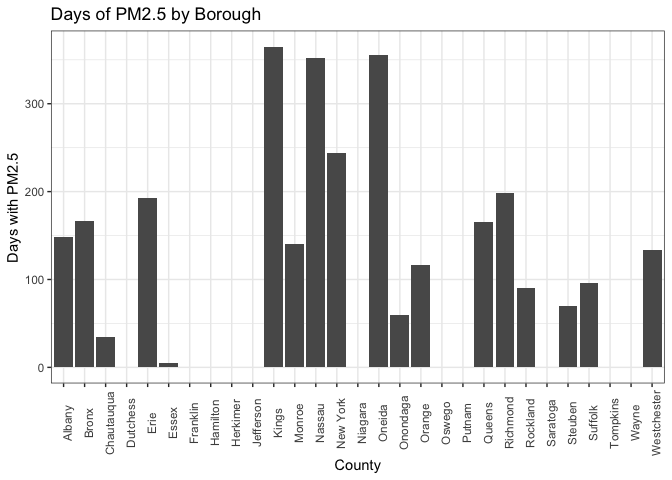
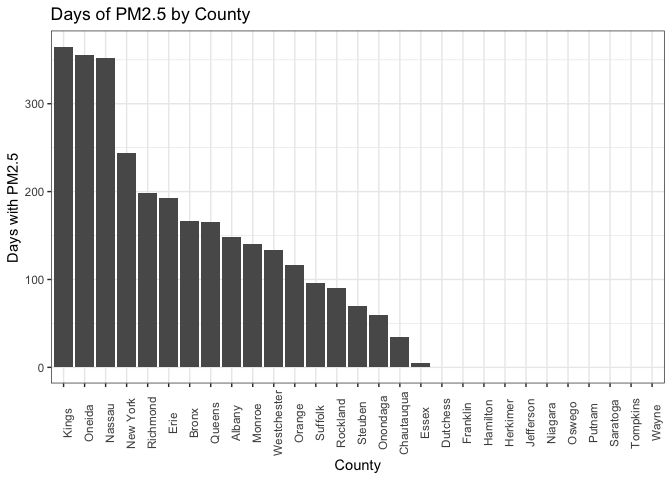
adding a few sentences for exploratory analysis + changing path files for data

diff --git a/final_report_AAAD.md b/final_report_AAAD.md
@@ -66,19 +66,16 @@ For our data analysis, we used data from [New York State DOH HealthData](https:/
 Exploratory analysis
 --------------------
 
-Background & Objectives
------------------------
-
 ### Exploration
 
-Initial PM2.5 data exploration was focused on New York City counties. However, limited data was available available, so NY state county data were selected to demonstrate the relationship between PM2.5 and hospitalizations of asthma and CVD.
+Initial PM2.5 data exploration was focused on New York City counties. However, limited data was available, so NY state county data were selected to demonstrate the relationship between PM2.5 and hospitalizations of asthma and CVD.
 
 Over 2000-2014, levels of PM2.5 across all counties in New York State have steadily decreased.
 
 #### PM2.5 Dataset, 2000-2014
 
 ``` r
-PM_county_NYS = read_csv("PM2.5_county_NYS.csv") %>%
+PM_county_NYS = read_csv("./data/PM2.5_county_NYS.csv") %>%
   janitor::clean_names() %>%
   #filter(year == "2014") %>%
   select(county_name, year, output, measure) %>%
@@ -107,7 +104,7 @@ Next, we wanted to assess how PM2.5 exposure varied across counties in NY State.
 #### PM2.5 EPA dataset
 
 ``` r
-nyc_pm25 = read_csv(file = "./data_AA/annual_aqi_by_county_2014.csv") %>% 
+nyc_pm25 = read_csv(file = "./data/data_AA/annual_aqi_by_county_2014.csv") %>% 
   janitor::clean_names() %>%
   filter(state == "New York")
 ## Parsed with column specification:
@@ -123,9 +120,9 @@ nyc_pm25 = read_csv(file = "./data_AA/annual_aqi_by_county_2014.csv") %>%
 
 ``` r
 pm_hist = nyc_pm25 %>%
-  ggplot(aes(x = county, y = days_pm2_5)) + 
+  ggplot(aes(x = reorder(county, -days_pm2_5), y = days_pm2_5)) + 
   labs(
-    title = "Days of PM2.5 by Borough",
+    title = "Days of PM2.5 by County",
     x = "County",
     y = "Days with PM2.5") +
   geom_histogram(stat = "identity") + theme(axis.text.x = element_text(angle = 90))
@@ -136,12 +133,14 @@ pm_hist
 
 <img src="final_report_AAAD_files/figure-markdown_github/unnamed-chunk-4-1.png" width="90%" />
 
+Kings, Oneida, and Nassau reported the most number of days of PM2.5.
+
 Literature shows that exposure to PM2.5 is associated with asthma and cardiovascular disease. Therefore, we wanted to assess hospitalization of asthma and CVD across counties.
 
 #### Asthma ER Admissions Rate Dataset, 2014
 
 ``` r
-asthma_ER = read_csv("Asthma_ER_Rate_10000.csv") %>%
+asthma_ER = read_csv("./data/Asthma_ER_Rate_10000.csv") %>%
   janitor::clean_names() %>%
   #filter(county_name == "Bronx" | county_name == "Kings" | county_name == "Queens" | county_name == "Richmond" | county_name == "New York") %>%
   select(county_name, percentage_rate_ratio, data_years) %>%
@@ -166,7 +165,7 @@ asthma_plot_14
 #### Cardiovascular hospitalizations
 
 ``` r
-cvd_data = read_csv(file = "./data_AK/Community_Health__Age-adjusted_Cardiovascular_Disease_Hospitalization_Rate_per_10_000_by_County_Map__Latest_Data.csv") %>% 
+cvd_data = read_csv(file = "./data/data_AK/Community_Health__Age-adjusted_Cardiovascular_Disease_Hospitalization_Rate_per_10_000_by_County_Map__Latest_Data.csv") %>% 
   janitor::clean_names() %>%
   filter(health_topic %in% "Cardiovascular Disease Indicators") %>% 
   select(county_name, event_count, average_number_of_denominator, 
@@ -190,7 +189,7 @@ cvd_data %>%
 
 <img src="final_report_AAAD_files/figure-markdown_github/cvd_bar_nys-1.png" width="90%" />
 
-======= *Visualizations, summaries, and exploratory statistical analyses. Justify the steps you took, and show any major changes to your ideas.* - Ashley, Div &gt;&gt;&gt;&gt;&gt;&gt;&gt; 86c08e47f37f82e7b6e7eb038c1fd090dfe96998
+Bronx recorded the highest rates of asthma emergency room admissions, which was more than double that of New York county (second highest rate), and nearly triple that of Kings county (third highest rate). Bronx also recorded the highest rates of cardiovascular hospitalization, with Niagara and Orleans following.
 
 Additional analysis
 -------------------
